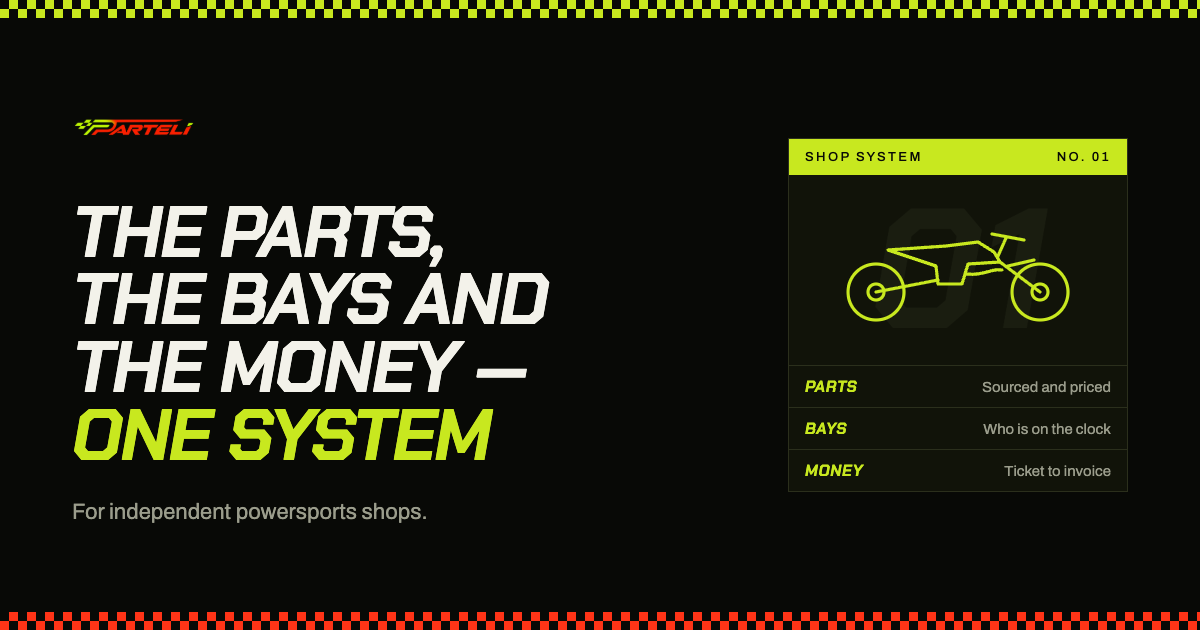
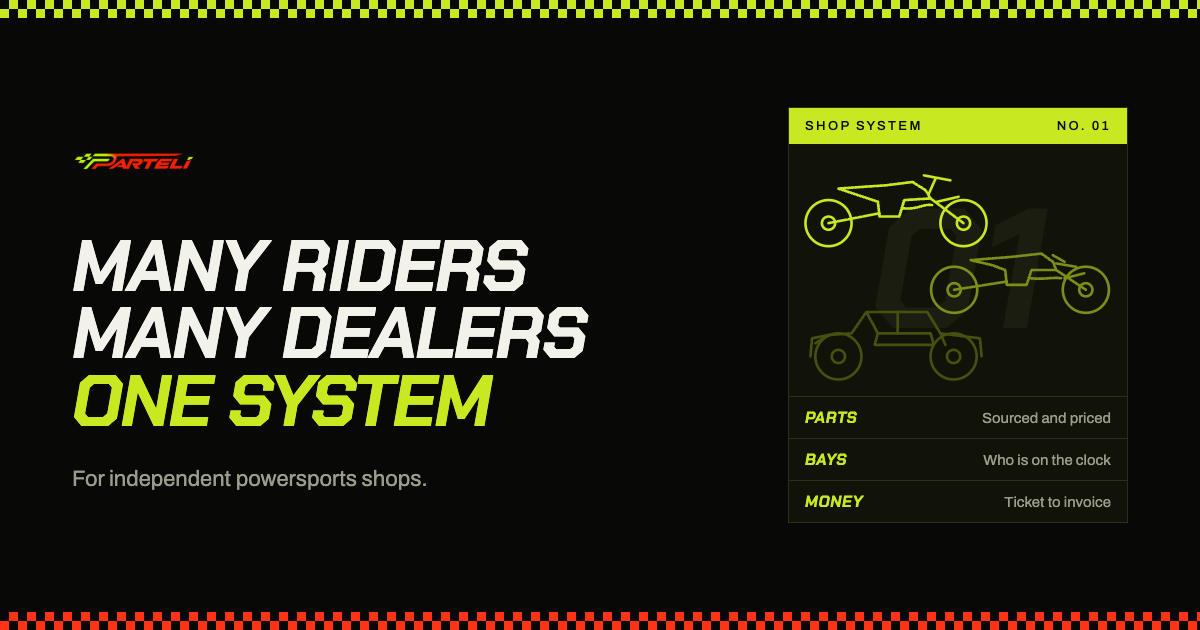
Wire Tailwind, and re-lead the hero on the network
Tailwind is imported in globals.css, so utilities generate for the first time —
the dependency has been installed and unreachable since the scaffold. Verified
two ways: a temporary probe file proved utilities are emitted, and a full-page
pixel diff at 1440 and 390 before/after the import came back 0 differing pixels.
Preflight lands in @layer base and everything in this project is unlayered, so
the page's own system wins regardless of source order. That is why adding it is
visually inert, and the reason is written into globals.css so nobody "tidies" the
project's reset away in favour of preflight.

Hero lead is now "Many riders / Many dealers / One system", accent on the last
line, as explicit lines so the accent can never land on a rewrap. The close reads
"planning" rather than "opening" an alpha.

The plate followed the headline: one machine became three, staggered and
overlapped, stepping back through two new tones. That is the first depth in this
system and it is tonal, not a shadow, which is the only kind this world allows —
recorded in DESIGN.md along with the rule that a fourth machine needs a fourth
tone rather than an opacity. The ghost 01 now does double duty as race number and
as the "one system" the accent names. The plate's rows stay Parts / Bays / Money:
they were an echo of the old headline and are an addition to the new one.

PRODUCT.md said "this site is not for riders", which the new lead outruns. It now
[…]

diff --git a/tools/og-template.html b/tools/og-template.html
@@ -89,7 +89,12 @@
     font-size: 170px; line-height: 1;
     color: #1a1d10;
   }
-  .machine { position: relative; width: 260px; color: #c8e81f; }
+  .plateBody { height: 252px; }
+  .stack { position: relative; display: grid; width: 100%; justify-items: center; }
+  .machine { width: 214px; }
+  .m1 { color: #c8e81f; justify-self: start; }
+  .m2 { color: #7d8f16; justify-self: end; margin-top: -11%; }
+  .m3 { color: #47500f; justify-self: start; margin-top: -11%; }
   .row {
     display: flex; justify-content: space-between; align-items: baseline;
     gap: 16px; padding: 10px 16px; border-top: 1px solid #2b2f1c;
@@ -106,7 +111,7 @@
   <div class="body">
     <div class="left">
       <img class="mark" src="WORDMARK_SRC" alt="Parteli">
-      <h1>The parts,<br>the bays and<br>the money —<br><em>one system</em></h1>
+      <h1>Many riders<br>Many dealers<br><em>One system</em></h1>
       <p class="sub">For independent powersports shops.</p>
     </div>
 
@@ -114,15 +119,35 @@
       <div class="plateTop"><span>Shop system</span><span>No. 01</span></div>
       <div class="plateBody">
         <span class="num">01</span>
-        <svg class="machine" viewBox="0 0 130 62" fill="none" stroke="currentColor"
-             stroke-width="1.6" stroke-linecap="round" stroke-linejoin="round">
-          <circle cx="24" cy="42" r="14"/><circle cx="106" cy="42" r="14"/>
-          <circle cx="24" cy="42" r="4"/><circle cx="106" cy="42" r="4"/>
-          <path d="M30 21 L59 19 L75 17 L83 22 L86 27 L70 28 L67 38 L55 38 L54 29 L45 26 Z"/>
-          <path d="M24 42 L55 36"/><path d="M86 27 L106 42"/><path d="M85 24 L89 15"/>
-          <path d="M82 13 L98 16"/><path d="M90 29 L103 26"/>
-          <path d="M69 33 C 78 34 82 30 87 31"/>
-        </svg>
+        <div class="stack">
+          <svg class="machine m1" viewBox="0 0 130 62" fill="none" stroke="currentColor"
+               stroke-width="1.6" stroke-linecap="round" stroke-linejoin="round">
+            <circle cx="24" cy="42" r="14"/><circle cx="106" cy="42" r="14"/>
+            <circle cx="24" cy="42" r="4"/><circle cx="106" cy="42" r="4"/>
+            <path d="M30 21 L59 19 L75 17 L83 22 L86 27 L70 28 L67 38 L55 38 L54 29 L45 26 Z"/>
+            <path d="M24 42 L55 36"/><path d="M86 27 L106 42"/><path d="M85 24 L89 15"/>
+            <path d="M82 13 L98 16"/><path d="M90 29 L103 26"/>
+            <path d="M69 33 C 78 34 82 30 87 31"/>
+          </svg>
+          <svg class="machine m2" viewBox="0 0 130 62" fill="none" stroke="currentColor"
+               stroke-width="1.6" stroke-linecap="round" stroke-linejoin="round">
+            <circle cx="25" cy="43" r="14"/><circle cx="105" cy="43" r="14"/>
+            <circle cx="25" cy="43" r="4"/><circle cx="105" cy="43" r="4"/>
+            <path d="M35 25 L60 23 L78 21 L85 26 L87 31 L72 31 L69 40 L57 40 L56 31 L48 28 Z"/>
+            <path d="M25 43 L57 38"/><path d="M87 31 L105 43"/><path d="M87 27 L99 29"/>
+            <path d="M85 22 L92 26"/><path d="M92 36 L104 33"/>
+            <path d="M71 36 C 80 37 86 35 90 36"/>
+          </svg>
+          <svg class="machine m3" viewBox="0 0 130 62" fill="none" stroke="currentColor"
+               stroke-width="1.6" stroke-linecap="round" stroke-linejoin="round">
+            <circle cx="30" cy="44" r="14"/><circle cx="100" cy="44" r="14"/>
+            <circle cx="30" cy="44" r="4"/><circle cx="100" cy="44" r="4"/>
+            <path d="M13 44 L14 33 L24 31 L38 30 L47 17 L84 17 L92 30 L116 33 L117 44"/>
+            <path d="M47 17 L54 30 L86 30"/><path d="M66 17 L66 30"/>
+            <path d="M54 30 L52 37 L88 37 L86 30"/><path d="M16 36 L24 31"/>
+            <path d="M92 30 L95 37"/>
+          </svg>
+        </div>
       </div>
       <div class="row"><span class="rl">Parts</span><span class="rv">Sourced and priced</span></div>
       <div class="row"><span class="rl">Bays</span><span class="rv">Who is on the clock</span></div>

diff --git a/src/app/page.module.css b/src/app/page.module.css
@@ -22,6 +22,10 @@
   /* Sampled from the wordmark itself, tamed one step for screen. */
   --lime: #c8e81f;
   --red: #ff3417;
+  /* The pack recedes: lead machine at full lime, the two behind it stepped down.
+     Tonal depth, not shadow — this world has no shadows. */
+  --lime-mid: #7d8f16;
+  --lime-deep: #47500f;
 
   background: var(--black);
   color: var(--text);
@@ -136,11 +140,15 @@
 }
 
 .h1 {
-  font-size: clamp(2.5rem, 6.4vw, 5.2rem);
-  line-height: 0.94;
-  letter-spacing: -0.028em;
-  max-width: 16ch;
-  text-wrap: balance;
+  font-size: clamp(2.6rem, 7vw, 5.6rem);
+  line-height: 0.92;
+  letter-spacing: -0.03em;
+}
+
+/* Explicit lines, so "Many riders / Many dealers / One system" never rewraps into
+   a shape the accent no longer lands on. */
+.h1Line {
+  display: block;
 }
 
 .h1 em {
@@ -187,10 +195,10 @@
 
 .plateBody {
   position: relative;
-  padding: clamp(1.75rem, 4.5vw, 3.25rem) clamp(1rem, 3vw, 2rem);
+  padding: clamp(1.25rem, 3vw, 2rem) clamp(1rem, 2.5vw, 1.5rem);
   display: grid;
   place-items: center;
-  min-height: 200px;
+  min-height: 210px;
 }
 
 .plateNumber {
@@ -208,10 +216,37 @@
   pointer-events: none;
 }
 
-.plateMachine {
+.plateStack {
   position: relative;
-  width: min(100%, 340px);
+  display: grid;
+  width: 100%;
+  justify-items: center;
+}
+
+.plateMachine {
+  width: min(92%, 272px);
+}
+
+/* Staggered and overlapped, so three machines read as a pack rather than a list.
+   Each step back loses a tone; nothing here uses a shadow. */
+.plateMachine:nth-child(1) {
   color: var(--lime);
+  justify-self: start;
+  z-index: 3;
+}
+
+.plateMachine:nth-child(2) {
+  color: var(--lime-mid);
+  justify-self: end;
+  margin-top: -11%;
+  z-index: 2;
+}
+
+.plateMachine:nth-child(3) {
+  color: var(--lime-deep);
+  justify-self: start;
+  margin-top: -11%;
+  z-index: 1;
 }
 
 /* The headline's three nouns as plate rows — the fold's evidence, without a claim. */

diff --git a/src/app/page.tsx b/src/app/page.tsx
@@ -3,7 +3,7 @@ import { Archivo, Chakra_Petch, JetBrains_Mono } from 'next/font/google';
 
 import { Machine } from '@/components/machine';
 import { WalkthroughForm } from '@/components/walkthrough-form';
-import { audience, brand, cta, footer, plateRows, subPromise } from '@/content/site';
+import { audience, brand, cta, footer, plateRows, promise, subPromise } from '@/content/site';
 
 import s from './page.module.css';
 
@@ -78,7 +78,12 @@ export default function Home() {
         <section className={s.hero}>
           <div>
             <h1 className={`${s.h1} ${s.display}`}>
-              The parts, the bays and the money — <em>one system</em>
+              {promise.lines.map((line) => (
+                <span key={line} className={s.h1Line}>
+                  {line}
+                </span>
+              ))}
+              <em className={s.h1Line}>{promise.accent}</em>
             </h1>
             <p className={s.heroSub}>{subPromise}</p>
             <div className={s.heroActions}>
@@ -97,7 +102,11 @@ export default function Home() {
               <span className={s.plateNumber} aria-hidden="true">
                 01
               </span>
-              <Machine kind="dirt" strokeWidth={1.6} className={s.plateMachine} />
+              <div className={s.plateStack}>
+                <Machine kind="dirt" strokeWidth={1.6} className={s.plateMachine} />
+                <Machine kind="road" strokeWidth={1.6} className={s.plateMachine} />
+                <Machine kind="utv" strokeWidth={1.6} className={s.plateMachine} />
+              </div>
             </div>
             <dl className={s.plateRows}>
               {plateRows.map((row) => (

diff --git a/src/content/site.ts b/src/content/site.ts
@@ -18,8 +18,16 @@ export const brand = {
   wordmark: '/brand/parteli-wordmark.png',
 } as const;
 
-/** One line, no mechanism. What a shop owner gets. */
-export const promise = 'The parts, the bays and the money — one system.';
+/**
+ * The hero lead, as explicit lines. The last one is accented.
+ * It names the network rather than the toolset: many of each side, one place they
+ * meet. `plateRows` below carries what the system actually does, so the plate adds
+ * to this line instead of restating it.
+ */
+export const promise = {
+  lines: ['Many riders', 'Many dealers'],
+  accent: 'One system',
+} as const;
 
 /**
  * Deliberately not present-tense about capability: the footer says the product is in
@@ -37,7 +45,7 @@ export const audience = {
 } as const;
 
 export const cta = {
-  heading: 'We are opening a small alpha',
+  heading: 'We are planning a small alpha',
   body: 'A short trial with a limited number of shops, run directly with us. If your shop is a fit, we would rather talk than send you a deck.',
   action: 'Request a walkthrough',
   email: 'hello@parteli.com',

diff --git a/src/app/globals.css b/src/app/globals.css
@@ -1,6 +1,15 @@
+@import 'tailwindcss';
+
 /*
- * Reset only. Each draft route owns its own visual world in a CSS module;
- * nothing that decides colour, type or texture belongs in this file.
+ * Tailwind is imported above so utilities are available. Its preflight lands in
+ * `@layer base`, and everything below plus every CSS Module in this project is
+ * unlayered — unlayered rules beat layered ones regardless of source order, so the
+ * page's own system always wins over preflight. That ordering is the whole reason
+ * adding Tailwind here is visually inert.
+ *
+ * The reset below predates the import and is kept deliberately: it is narrower than
+ * preflight in the places this project cares about (focus-visible, reduced motion,
+ * `100svh`), and removing it would silently hand those decisions to Tailwind.
  */
 
 *,

diff --git a/src/app/layout.tsx b/src/app/layout.tsx
@@ -1,9 +1,9 @@
 import type { Metadata, Viewport } from 'next';
 import './globals.css';
 
-const TITLE = 'Parteli — one system for an independent powersports shop';
+const TITLE = 'Parteli — many riders, many dealers, one system';
 const DESCRIPTION =
-  'Parteli is being built for the work your shop already does — sourcing parts, tracking who is on the clock, getting the invoice out. We are opening a small alpha.';
+  'Parteli is being built for the work your shop already does — sourcing parts, tracking who is on the clock, getting the invoice out. We are planning a small alpha.';
 
 /**
  * `metadataBase` resolves the OG image to an absolute URL, which every scraper

diff --git a/TODO.md b/TODO.md
@@ -4,19 +4,17 @@ Ordered roughly by what blocks a public launch.
 
 ## Before this is public
 
-- [ ] **Set `RESEND_API_KEY`.** Copy `.env.example` → `.env.local` and fill it in, then add
-      the same variable in Vercel → Project → Settings → Environment Variables. Without it
-      the form returns 503 and falls back to the `mailto:` link, which is safe but not the
-      intended path. **Do not commit the key or paste it into a chat.**
-- [ ] **Verify a sending domain in Resend** and set `CONTACT_FROM_EMAIL` to an address on
-      it. The default `onboarding@resend.dev` only delivers to the address that owns the
-      Resend account — fine for testing, silently useless in production.
-- [ ] **Set `CONTACT_TO_EMAIL`** to wherever requests should actually land. Defaults to
-      `hello@parteli.com`; confirm that mailbox exists and someone reads it.
+- [ ] **Send one real test request through the deployed form.** Cam set the Resend env vars
+      on 2026-09-19; nothing in this repo can confirm they are correct. Submit the live form
+      once and confirm the mail arrives. If it does not, the two usual causes are
+      `CONTACT_FROM_EMAIL` still on `onboarding@resend.dev` (which only delivers to the
+      address owning the Resend account) or `CONTACT_TO_EMAIL` pointing at a mailbox that
+      does not exist. A 503 in the browser means the key is not reaching the function;
+      a 502 means Resend rejected it, and the reason is in the Vercel function log.
+- [ ] **Confirm `hello@parteli.com` is a real, monitored mailbox.** It is `CONTACT_TO_EMAIL`'s
+      default and the address the form shows as its fallback.
 - [ ] **Decide on indexing.** `src/app/layout.tsx` currently sets `robots: { index: false }`.
       That is deliberate for a pre-launch page — remove it when you want to be found.
-- [ ] **Confirm `hello@parteli.com` is real.** It is used as the mailto fallback in the form
-      error state and would be visible to a dealer if the API is down.
 
 ## Brand
 
@@ -41,15 +39,6 @@ Ordered roughly by what blocks a public launch.
       1200×630. Its line breaks are explicit so the lime phrase never splits.
 - [ ] Consider a spam/rate limit on `/api/walkthrough` beyond the honeypot if it gets
       scraped. Vercel's firewall or a simple IP throttle would do.
-
-## Housekeeping
-
-- [ ] **Decide what to do about Tailwind.** `tailwindcss` + `@tailwindcss/postcss` are
-      installed and the PostCSS plugin is configured, but `globals.css` never imports
-      Tailwind, so no utilities are generated and the dependency is unreachable dead
-      weight. Either remove both packages and the PostCSS plugin, or add
-      `@import "tailwindcss";` to `globals.css` if you want utilities available
-      alongside the CSS Modules. Left as your call rather than removed unilaterally.
 
 ## Cross-repo
 

diff --git a/DESIGN.md b/DESIGN.md
@@ -15,13 +15,15 @@ colors:
   decal-ink: "#2c3107"
   error-ink: "#ffb3a3"
   line-hover: "#464b2e"
+  lime-mid: "#7d8f16"
+  lime-deep: "#47500f"
 typography:
   display:
     fontFamily: "Chakra Petch, Archivo, sans-serif"
-    fontSize: "clamp(2.5rem, 6.4vw, 5.2rem)"
+    fontSize: "clamp(2.6rem, 7vw, 5.6rem)"
     fontWeight: 700
-    lineHeight: 0.94
-    letterSpacing: "-0.028em"
+    lineHeight: 0.92
+    letterSpacing: "-0.03em"
   headline:
     fontFamily: "Chakra Petch, Archivo, sans-serif"
     fontSize: "clamp(2rem, 4.4vw, 3.5rem)"
@@ -562,6 +564,33 @@ colours are `#C3FE06` and `#FF2200`; the screen palette is the tamed step down f
 - **Don't** add a second authored animation without deciding what the first one costs. One moment is
   the budget.
 - **Don't** ship raster art for new elements. The wordmark PNG is an open item, not a precedent.
+
+## The pack
+
+The hero plate carries three machines, not one, because the lead line reads "Many riders."
+They are the same inline-SVG geometry at three tones, staggered left/right/left and
+overlapped by 11%:
+
+| Position | Token | Role |
+|---|---|---|
+| Front | `lime` `#c8e81f` | The lead machine, full accent |
+| Middle | `lime-mid` `#7d8f16` | One step back |
+| Rear | `lime-deep` `#47500f` | Two steps back |
+
+**This is the only depth in the system, and it is tonal.** There are no shadows anywhere on
+the page and this does not introduce one — recession is carried by the stroke colour alone,
+which is why it survives the no-shadow rule. If a fourth machine is ever added, it needs a
+fourth tone, not an opacity: opacity on a stroke over the panel ground reads as a different
+grey than the token ramp and breaks the recession.
+
+The ghost numeral behind the pack stays `01`. It is doing double duty — a race number, and
+the "One system" the accent line names — so it should not be pluralised or removed when the
+pack grows.
+
+The plate's rows (Parts / Bays / Money) deliberately do **not** restate the headline. The
+lead line says who the system is for; the rows say what it does. When the headline was still
+"The parts, the bays and the money" those rows were an echo; they stopped being one when the
+headline changed, and they should not be re-synced to it.
 
 ## Open
 

diff --git a/PRODUCT.md b/PRODUCT.md
@@ -29,8 +29,12 @@ shipped code.
    here. They must never be served a separate watered-down story — the dealer pitch *is* the
    investor proof.
 
-This site is not for riders. The consumer marketplace is a later phase and is not this surface's
-job.
+The site does not sell to riders and has no rider-facing action — the consumer marketplace is a
+later phase. But as of 2026-09-19 the hero names the network rather than the toolset ("Many
+riders / Many dealers / One system"), so riders appear on the page as one side of what the
+platform connects. That is a positioning choice by the user, and it is consistent with the
+dealer-first sequencing below: demand is routed back to platform dealers, not competed with.
+The page still asks a dealer for a conversation and asks a rider for nothing.
 
 ## Product Purpose
 
@@ -75,7 +79,8 @@ product functionality, a blog or docs.
 - **No named partners.** Cycle Works Red Deer and every other dealer stays unnamed. No logos, no
   "trusted by", no customer count.
 - **No market or geography framing as a claim.** The Alberta focus and the dealer-consolidation
-  thesis are not asserted on this page.
+  thesis are not asserted on this page. "Many riders / Many dealers" describes what the platform
+  connects, not a count of anyone currently using it — it must never acquire a number.
 - **Outcomes, not mechanism.** The page describes what a dealer gets — margin kept, parts sourced
   faster, the shop's work visible in one place. It does not explain or demonstrate the landed-cost
   ranking that makes it work. The wedge stays unpublished.
